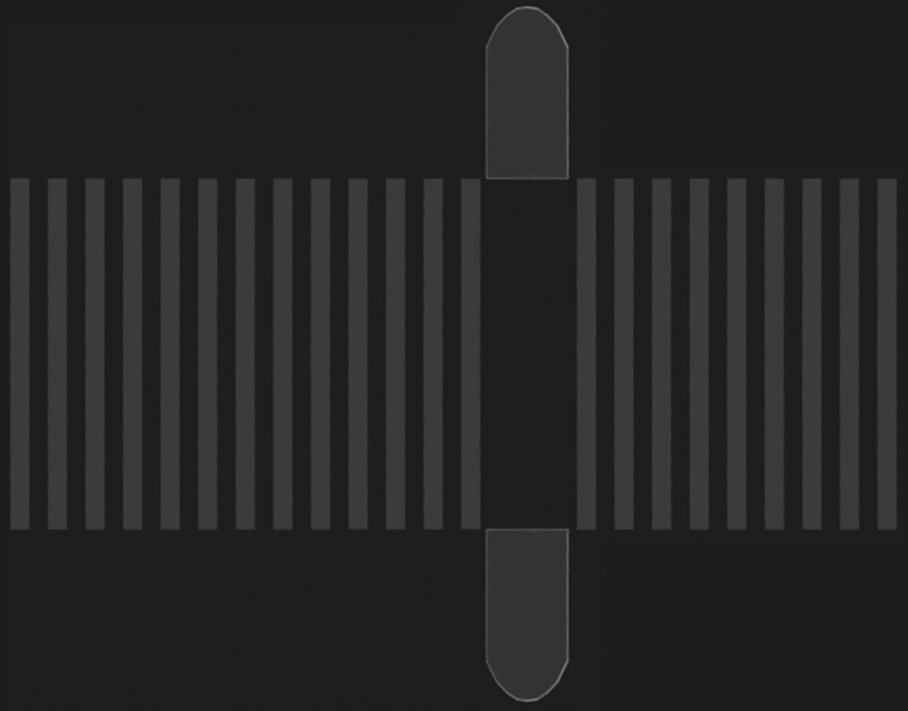
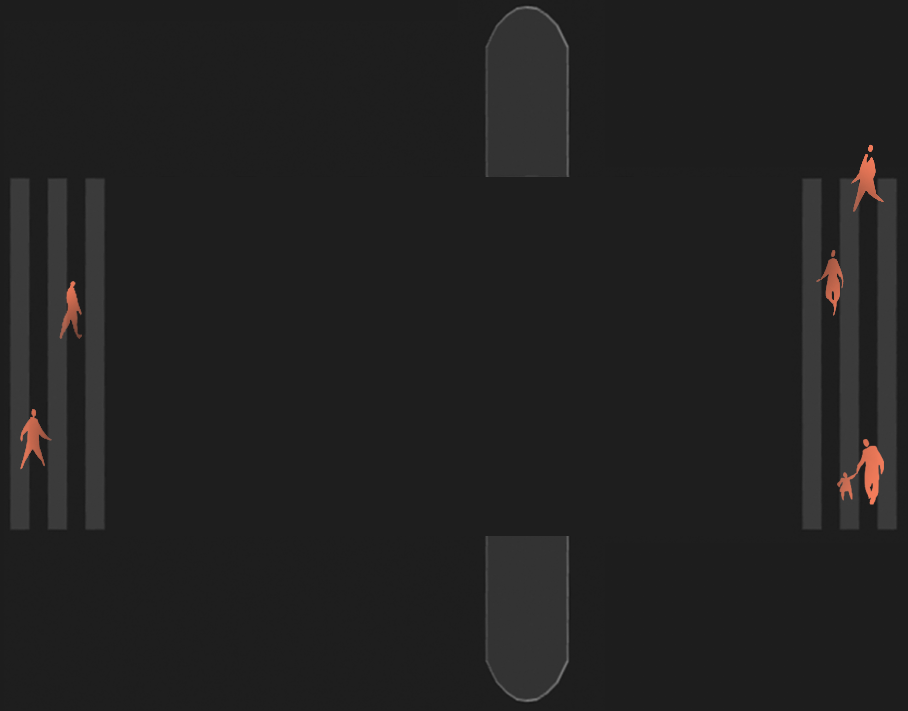
heatmap env add people img

diff --git a/src/client/Heatmap.js b/src/client/Heatmap.js
@@ -31,7 +31,7 @@ const rectColorScale = scaleLinear({
   domain: [0, colorMax]
 });
 const opacityScale = scaleLinear({
-  range: [0.8, 0.8],
+  range: [0.9, 0.9],
   domain: [0, colorMax]
 });
 
